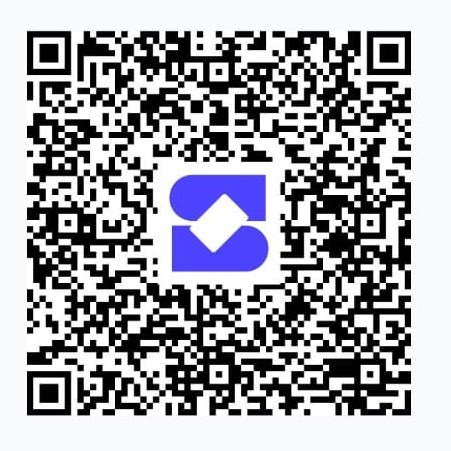
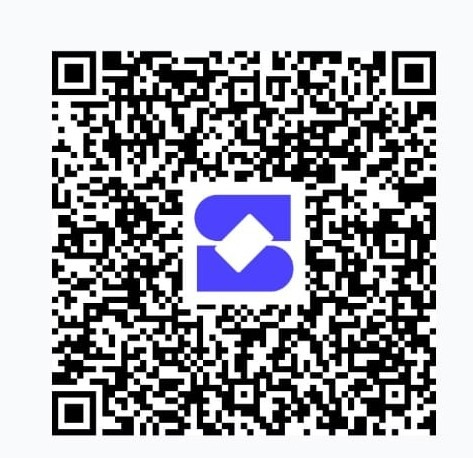
Update pricing: 69->55, 99->85, 179->145 | Data: 40->80GB, 50->100GB, 150->250GB | New QR codes | Fix nav links | Switch to webpack bundler

diff --git a/frontend-build/app/plans/page.tsx b/frontend-build/app/plans/page.tsx
@@ -10,7 +10,7 @@ const features = [
   { label: 'Anonymous master token login', basic: true, standard: true, quarterly: true },
   { label: 'Windows client', basic: true, standard: true, quarterly: true },
   { label: 'Android client', basic: true, standard: true, quarterly: true },
-  { label: 'Data included', basic: '40 GB / mo', standard: '50 GB / mo', quarterly: '150 GB / qtr' },
+  { label: 'Data included', basic: '80 GB / mo', standard: '100 GB / mo', quarterly: '250 GB / qtr' },
   { label: 'Additional data rate', basic: '₹10/GB', standard: '₹10/GB', quarterly: '₹10/GB' },
   { label: 'Connected device slots', basic: '1 device', standard: '2 devices', quarterly: '1 device' },
   { label: 'India & global infrastructure', basic: true, standard: true, quarterly: true },
@@ -51,14 +51,14 @@ export default function PlansPage() {
               <div className="mb-6">
                 <p className="text-sm font-medium text-muted-foreground uppercase tracking-wider mb-1">Basic Monthly</p>
                 <div className="flex items-end gap-1">
-                  <span className="text-4xl font-bold text-foreground">₹69</span>
+                  <span className="text-4xl font-bold text-foreground">₹55</span>
                   <span className="text-muted-foreground pb-1">/month</span>
                 </div>
                 <p className="text-xs text-muted-foreground mt-1">GST included</p>
               </div>
 
               <ul className="space-y-2.5 mb-8 flex-1">
-                {['40 GB data per month', '1 connected device slot', 'All platform clients', 'Encrypted private access', 'No activity logs'].map((f) => (
+                {['80 GB data per month', '1 connected device slot', 'All platform clients', 'Encrypted private access', 'No activity logs'].map((f) => (
                   <li key={f} className="flex items-center gap-2 text-sm text-foreground">
                     <CheckCircle2 className="h-4 w-4 text-primary flex-shrink-0" />
                     {f}
@@ -78,14 +78,14 @@ export default function PlansPage() {
               <div className="mb-6">
                 <p className="text-sm font-medium text-muted-foreground uppercase tracking-wider mb-1">Standard Monthly</p>
                 <div className="flex items-end gap-1">
-                  <span className="text-4xl font-bold text-foreground">₹99</span>
+                  <span className="text-4xl font-bold text-foreground">₹85</span>
                   <span className="text-muted-foreground pb-1">/month</span>
                 </div>
                 <p className="text-xs text-muted-foreground mt-1">GST included</p>
               </div>
 
               <ul className="space-y-2.5 mb-8 flex-1">
-                {['50 GB data per month', '2 connected device slots', 'All platform clients', 'Encrypted private access', 'No activity logs'].map((f) => (
+                {['100 GB data per month', '2 connected device slots', 'All platform clients', 'Encrypted private access', 'No activity logs'].map((f) => (
                   <li key={f} className="flex items-center gap-2 text-sm text-foreground">
                     <CheckCircle2 className="h-4 w-4 text-primary flex-shrink-0" />
                     {f}
@@ -110,14 +110,14 @@ export default function PlansPage() {
               <div className="mb-6">
                 <p className="text-sm font-medium text-muted-foreground uppercase tracking-wider mb-1">Quarterly</p>
                 <div className="flex items-end gap-1">
-                  <span className="text-4xl font-bold text-foreground">₹179</span>
+                  <span className="text-4xl font-bold text-foreground">₹145</span>
                   <span className="text-muted-foreground pb-1">/quarter</span>
                 </div>
-                <p className="text-xs text-muted-foreground mt-1">GST included · ≈ ₹59.67/month</p>
+                <p className="text-xs text-muted-foreground mt-1">GST included · ≈ ₹48.33/month</p>
               </div>
 
               <ul className="space-y-2.5 mb-8 flex-1">
-                {['150 GB data per 3 months', '1 connected device slot', 'All platform clients', 'Encrypted private access', 'No activity logs', 'Priority support'].map((f) => (
+                {['250 GB data per 3 months', '1 connected device slot', 'All platform clients', 'Encrypted private access', 'No activity logs', 'Priority support'].map((f) => (
                   <li key={f} className="flex items-center gap-2 text-sm text-foreground">
                     <CheckCircle2 className="h-4 w-4 text-primary flex-shrink-0" />
                     {f}
@@ -146,13 +146,13 @@ export default function PlansPage() {
                       Feature
                     </th>
                     <th className="text-center px-6 py-3 text-xs font-medium text-muted-foreground uppercase tracking-wider">
-                      ₹69 Basic
+                      ₹55 Basic
                     </th>
                     <th className="text-center px-6 py-3 text-xs font-medium text-muted-foreground uppercase tracking-wider">
-                      ₹99 Standard
+                      ₹85 Standard
                     </th>
                     <th className="text-center px-6 py-3 text-xs font-medium text-primary uppercase tracking-wider">
-                      ₹179 Quarterly
+                      ₹145 Quarterly
                     </th>
                   </tr>
                 </thead>

diff --git a/frontend-build/app/dashboard/page.tsx b/frontend-build/app/dashboard/page.tsx
@@ -101,14 +101,11 @@ function RealDownloadButton({ label, href }: { label: string; href: string }) {
 }
 
 // Plan metadata keyed by plan ID (matches planId in plan-cta.tsx)
-// QR files are assigned to match the actual UPI payment amount:
-//   basic (₹69)     → payment-qr-quarterly.jpg
-//   standard (₹99)  → payment-qr-basic.jpg
-//   quarterly (₹179) → payment-qr-standard.jpg
+// QR files match their plan names directly
 const PLAN_INFO: Record<string, { label: string; price: string; qr: string }> = {
-  basic:     { label: 'Basic Monthly',    price: '₹69/month',    qr: '/payment-qr-quarterly.jpg' },
-  standard:  { label: 'Standard Monthly', price: '₹99/month',    qr: '/payment-qr-basic.jpg' },
-  quarterly: { label: 'Quarterly',        price: '₹179/quarter', qr: '/payment-qr-standard.jpg' },
+  basic:     { label: 'Basic Monthly',    price: '₹55/month',    qr: '/payment-qr-basic.jpg' },
+  standard:  { label: 'Standard Monthly', price: '₹85/month',    qr: '/payment-qr-standard.jpg' },
+  quarterly: { label: 'Quarterly',        price: '₹145/quarter', qr: '/payment-qr-quarterly.jpg' },
 }
 
 // ─── Tab: My Credits ──────────────────────────────────────────────────────────
@@ -202,9 +199,9 @@ function CreditsTab({ profile }: { profile: AccountMeResponse | null }) {
           </div>
         </div>
         <div className="mt-5">
-          <a href="/plans" className="inline-block rounded-md border border-border px-4 py-2 text-sm font-medium text-foreground hover:bg-muted hover:border-primary transition-colors">
+          <Link href="/plans" className="inline-block rounded-md border border-border px-4 py-2 text-sm font-medium text-foreground hover:bg-muted hover:border-primary transition-colors">
             View Plans &amp; Pricing
-          </a>
+          </Link>
         </div>
       </div>
 

diff --git a/frontend-build/components/nav.tsx b/frontend-build/components/nav.tsx
@@ -14,9 +14,7 @@ const publicLinks = [
 ]
 
 const authLinks = [
-  { href: '/dashboard/credits', label: 'My Credits' },
-  { href: '/dashboard/devices', label: 'Devices' },
-  { href: '/dashboard/billing', label: 'Billing' },
+  { href: '/dashboard', label: 'Dashboard' },
 ]
 
 import { api } from '@/lib/api'
@@ -66,7 +64,7 @@ export function Nav({ isLoggedIn = false }: { isLoggedIn?: boolean }) {
                 href={link.href}
                 className={cn(
                   'px-3 py-1.5 text-sm rounded-md transition-colors',
-                  pathname === link.href
+                  pathname === link.href || (link.href === '/dashboard' && pathname.startsWith('/dashboard'))
                     ? 'text-primary bg-primary/10'
                     : 'text-muted-foreground hover:text-foreground hover:bg-muted'
                 )}
@@ -124,7 +122,7 @@ export function Nav({ isLoggedIn = false }: { isLoggedIn?: boolean }) {
                 onClick={() => setOpen(false)}
                 className={cn(
                   'block px-3 py-2 text-sm rounded-md transition-colors',
-                  pathname === link.href
+                  pathname === link.href || (link.href === '/dashboard' && pathname.startsWith('/dashboard'))
                     ? 'text-primary bg-primary/10'
                     : 'text-muted-foreground hover:text-foreground hover:bg-muted'
                 )}

diff --git a/frontend-build/app/page.tsx b/frontend-build/app/page.tsx
@@ -175,7 +175,7 @@ export default function HomePage() {
               Ready to go private?
             </h2>
             <p className="text-muted-foreground mb-8 text-pretty">
-              Start for ₹69/month. No personal information required. Cancel any time.
+              Start for ₹55/month. No personal information required. Cancel any time.
             </p>
             <div className="flex flex-col sm:flex-row items-center justify-center gap-3">
               <Link
